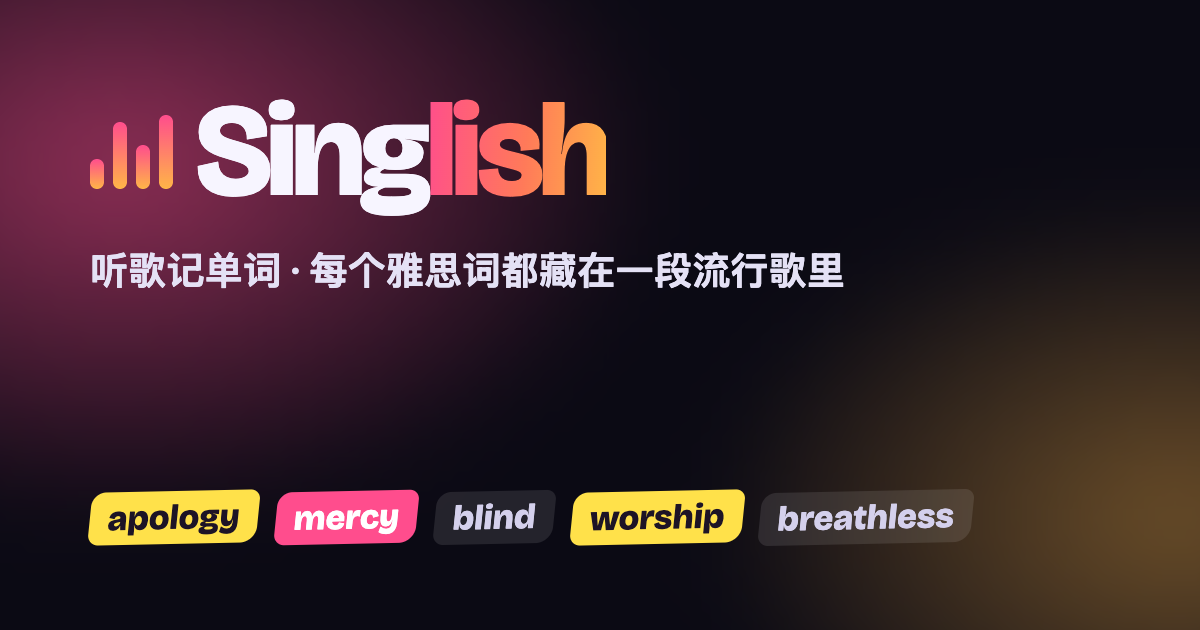
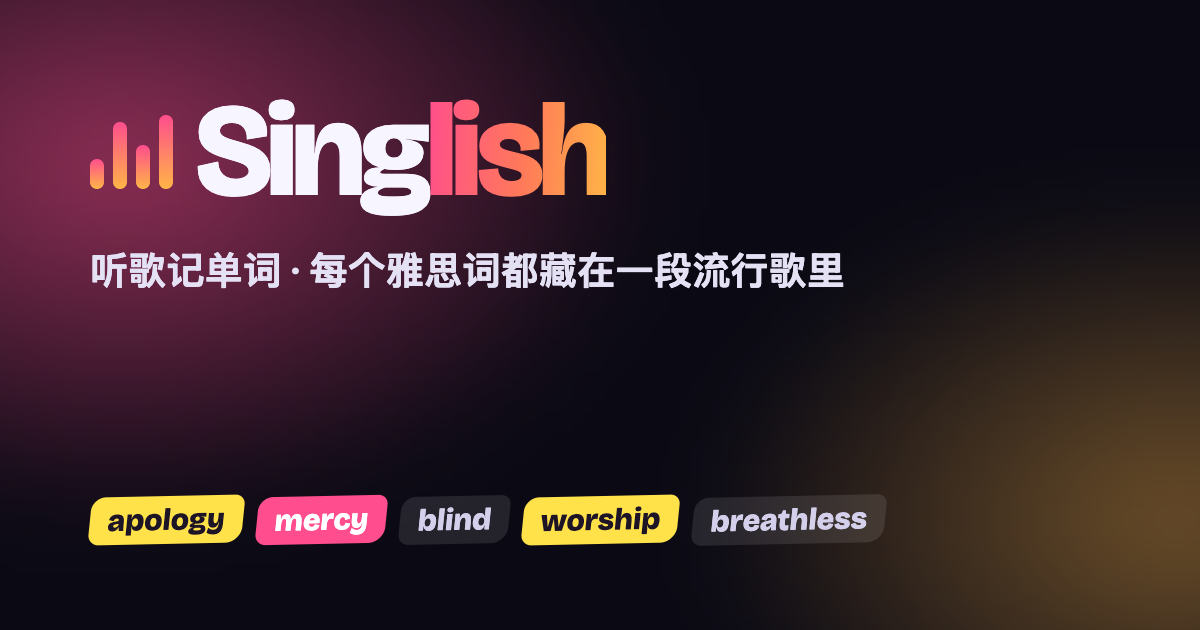
Share sheet only, header "完整版" entry, phone scroll lock
- Share pop-up: one "分享" button where the poster can be shared (the
  system sheet also offers Save Image); desktop without sharing keeps a
  download; in-app browsers get the long-press hint. Light edge on the
  preview so the dark poster stands out.
- Small "完整版" pill after the logo opens the full-version survey any
  time; survey copy updated.
- Phones: the page itself can no longer scroll, fixing the layout that
  sometimes shifted up and stuck (focus / scrollIntoView on iOS); the
  word list scrolls internally, its header stays pinned, and its close
  button is no longer covered by the site header.
- Link-preview image: word chips on one row.

Changed region(s): [[0.0617, 0.754, 0.8017, 0.8746]]

diff --git a/index.html b/index.html
@@ -63,6 +63,8 @@ a{color:var(--amber)}
 body.is-playing .eq i{animation:eq .8s ease-in-out infinite alternate}
 .eq i:nth-child(2){animation-delay:-.2s!important}.eq i:nth-child(3){animation-delay:-.45s!important}.eq i:nth-child(4){animation-delay:-.1s!important}
 @keyframes eq{0%{height:4px}100%{height:20px}}
+.full-pill{flex:none;border:1px solid rgba(255,77,141,.45);background:rgba(255,77,141,.12);color:#FF9DC0;border-radius:999px;padding:2px 8px;font-size:11px;line-height:16px;font-weight:700;letter-spacing:.02em;transition:background .15s,color .15s}
+@media (hover:hover){ .full-pill:hover{background:var(--grad);color:#1A0C14;border-color:transparent} }   /* no sticky hover after a tap on phones */
 .tagline{margin:0;color:var(--muted);font-size:13px;white-space:nowrap;overflow:hidden;text-overflow:ellipsis}
 .top .grow{flex:1}
 .prog{display:flex;align-items:center;gap:10px;font-size:13px;color:var(--muted);white-space:nowrap;font-variant-numeric:tabular-nums}
@@ -191,12 +193,14 @@ body.is-playing .deck-cd{animation-play-state:running}
 
 /* ---------- phone ---------- */
 @media (max-width:899px){
-  body{overflow:hidden;display:flex;flex-direction:column;height:100%}
+  html{height:100%;overflow:hidden;overscroll-behavior:none}
+  body{overflow:hidden;display:flex;flex-direction:column;height:100%;position:fixed;inset:0;overscroll-behavior:none}
   .top{padding:10px 16px;gap:10px;flex:none}
   .logo h1{font-size:21px}
   .tagline,.prog-bar{display:none}
   .btn-list{display:inline-block}
-  .app{display:flex;flex-direction:column;padding:0;flex:1;min-height:0;min-width:0;gap:0;width:100%;max-width:100vw}
+  /* z-index:auto so the fixed word-list panel (z 40) can sit above the header (z 20) */
+  .app{display:flex;flex-direction:column;padding:0;flex:1;min-height:0;min-width:0;gap:0;width:100%;max-width:100vw;z-index:auto}
   .aside{position:static;display:contents}
   #deskStage,.hint,.foot{display:none}
   .aside > .deck{flex:none;align-self:stretch;width:auto;margin:12px 16px 0;border-radius:22px;aspect-ratio:auto;height:132px;padding:14px;gap:14px}
@@ -206,7 +210,7 @@ body.is-playing .deck-cd{animation-play-state:running}
   .clip{margin-bottom:2px}
   .browser{position:fixed;inset:0;z-index:40;background:var(--bg);overflow:auto;padding:calc(env(safe-area-inset-top,0px) + 14px) 16px calc(env(safe-area-inset-bottom,0px) + 24px);display:none}
   .browser.open{display:block}
-  .browser-head{display:flex}
+  .browser-head{display:flex;position:sticky;top:calc(-1 * (env(safe-area-inset-top,0px) + 12px));z-index:2;margin:0 -16px 12px;padding:calc(env(safe-area-inset-top,0px) + 12px) 16px 10px;background:color-mix(in srgb,var(--bg) 92%,transparent);backdrop-filter:blur(10px);-webkit-backdrop-filter:blur(10px)}
   .grid{grid-template-columns:repeat(auto-fill,minmax(150px,1fr));gap:10px}
   .card .w{font-size:21px}
   .carousel{display:flex;flex:1;min-height:0;width:100%;min-width:0;max-width:100vw;overflow-x:auto;scroll-snap-type:x mandatory;overscroll-behavior-x:contain;scrollbar-width:none;
@@ -271,7 +275,9 @@ body.is-playing .deck-cd{animation-play-state:running}
 .st-top .no{margin-left:auto}
 .sheet{position:fixed;inset:0;z-index:60;display:flex;align-items:center;justify-content:center;padding:calc(env(safe-area-inset-top,0px) + 16px) 16px calc(env(safe-area-inset-bottom,0px) + 16px);background:rgba(6,5,12,.72);backdrop-filter:blur(10px);-webkit-backdrop-filter:blur(10px)}
 .sheet-card{display:flex;flex-direction:column;align-items:center;gap:14px;max-width:min(440px,100%);max-height:100%}
-.sheet-card img{display:block;max-width:100%;max-height:calc(100dvh - 190px);border-radius:18px;box-shadow:0 24px 70px rgba(0,0,0,.6);background:#15121F}
+.sheet-card img{display:block;max-width:100%;max-height:calc(100dvh - 190px);border-radius:18px;background:#15121F;
+  /* the poster is dark on a dark backdrop: a light hairline and soft halo keep its edge readable */
+  box-shadow:0 0 0 1px rgba(255,255,255,.22),0 0 0 6px rgba(255,255,255,.04),0 24px 70px rgba(0,0,0,.7)}
 .sheet-card .busy{color:var(--soft);font-size:14px;padding:40px}
 .sheet-actions{display:flex;gap:8px;flex-wrap:wrap;justify-content:center}
 .sheet-actions button{height:44px;border-radius:999px;padding:0 18px;font-weight:700;font-size:14px;border:1px solid var(--stroke-2);background:var(--glass-2);color:var(--ink)}
@@ -287,7 +293,7 @@ body.is-playing .deck-cd{animation-play-state:running}
 <div class="ambient" aria-hidden="true"><i id="artA"></i><i id="artB"></i></div>
 
 <header class="top">
-  <div class="logo"><span class="eq" aria-hidden="true"><i></i><i></i><i></i><i></i></span><h1>Sing<span>lish</span></h1></div>
+  <div class="logo"><span class="eq" aria-hidden="true"><i></i><i></i><i></i><i></i></span><h1>Sing<span>lish</span></h1></div><button type="button" class="full-pill" id="openFull">完整版</button>
   <p class="tagline">听歌记单词 · 每个雅思词都藏在一段流行歌里</p>
   <div class="grow"></div>
   <div class="prog"><div class="prog-bar"><i id="progFill"></i></div><span><b id="doneCount">0</b> / <span id="totalCount">100</span> 已唱</span></div>
@@ -339,7 +345,7 @@ body.is-playing .deck-cd{animation-play-state:running}
   <div class="survey-card">
     <button type="button" class="survey-x" id="surveyClose" aria-label="关闭">×</button>
     <h3 id="surveyTitle">完整版，敬请期待</h3>
-    <p>更多词表、搜任意单词出卡片、复习模式……你想要吗？</p>
+    <p>字典选择，曲风/歌手偏好，跟唱模式，复习...</p>
     <div class="survey-actions"><button type="button" class="want-btn" data-want>♥ 想要</button><button type="button" id="surveyMeh">一般般</button></div>
   </div>
 </div>
@@ -349,9 +355,8 @@ body.is-playing .deck-cd{animation-play-state:running}
     <p class="busy" id="sheetBusy">正在生成分享图…</p>
     <img id="sheetImg" alt="分享图预览" hidden>
     <div class="sheet-actions">
-      <button type="button" class="primary" id="shareNative" hidden>分享</button>
       <button type="button" id="shareSave">保存图片</button>
-      <button type="button" id="shareCopy">复制链接</button>
+      <button type="button" class="primary" id="shareNative">分享</button>
       <button type="button" id="shareClose">关闭</button>
     </div>
     <p class="sheet-hint" id="sheetHint">手机上也可以长按图片保存</p>
@@ -758,6 +763,7 @@ $('#surveyMeh').addEventListener('click', () => { vote('meh'); closeSurvey(); })
 $('#surveyClose').addEventListener('click', () => { store.set('stw.survey', 1); closeSurvey(); });
 $('#survey').addEventListener('click', e => { if (e.target.id === 'survey') { store.set('stw.survey', 1); closeSurvey(); } });
 function closeSurvey() { $('#survey').hidden = true; }
+$('#openFull').addEventListener('click', () => { renderWant(); $('#survey').hidden = false; });   // open any time from the header
 // ask once, after the listener has finished five different clips in this visit
 const sungThisVisit = new Set();
 function maybeSurvey(i) {
@@ -858,7 +864,7 @@ let shareFile = null, shareIdx = 0, shareUrl = '';
 async function openShare(i) {
   shareIdx = i; shareFile = null;
   const sheet = $('#sheet'), img = $('#sheetImg');
-  sheet.hidden = false; img.hidden = true; $('#sheetBusy').hidden = false; $('#shareNative').hidden = true;
+  sheet.hidden = false; img.hidden = true; $('#sheetBusy').hidden = false;
   try {
     const blob = await makeCard(i);
     shareFile = new File([blob], `singlish-${DATA[i].word}.png`, { type: 'image/png' });
@@ -877,7 +883,8 @@ function setShareMode() {
   const canFiles = !!(navigator.canShare && shareFile && navigator.canShare({ files: [shareFile] }));
   const save = $('#shareSave'), native = $('#shareNative'), hint = $('#sheetHint');
   native.hidden = !canFiles;
-  if (touch && canFiles) { save.textContent = '保存到相册'; save.hidden = false; hint.innerHTML = '发朋友圈：点「分享」→ 选「微信」→「分享到朋友圈」<br>存相册：点「保存到相册」→「存储图像」'; }
+  // the share sheet already has "Save Image", so wherever sharing works it is the only button
+  if (canFiles) { save.hidden = true; hint.innerHTML = touch ? '发朋友圈：点「分享」→ 选「微信」→「分享到朋友圈」<br>存相册：点「分享」→「存储图像」' : ''; }
   else if (touch) { save.hidden = true; hint.innerHTML = '长按图片，保存到相册<br><small>再去朋友圈发表，从相册选这张图</small>'; hint.classList.add('strong'); }
   else { save.textContent = '保存图片'; save.hidden = false; hint.textContent = ''; }
   if (inApp) { save.hidden = true; native.hidden = true; hint.innerHTML = '长按图片，保存到相册<br><small>再去朋友圈发表，从相册选这张图</small>'; hint.classList.add('strong'); }
@@ -894,11 +901,6 @@ $('#shareSave').addEventListener('click', async () => {
   if (!shareUrl) return;
   if (touch && navigator.canShare?.({ files: [shareFile] })) { try { await navigator.share({ files: [shareFile] }); } catch {} return; }   // → "Save Image"
   const a = document.createElement('a'); a.href = shareUrl; a.download = shareFile.name; document.body.appendChild(a); a.click(); a.remove();
-});
-$('#shareCopy').addEventListener('click', async () => {
-  const url = pageUrl(shareIdx), btn = $('#shareCopy');
-  try { await navigator.clipboard.writeText(url); btn.textContent = '已复制'; } catch { prompt?.('复制这个链接', url); }
-  setTimeout(() => btn.textContent = '复制链接', 1600);
 });
 document.addEventListener('click', e => { const b = e.target.closest('[data-share]'); if (b) openShare(+b.dataset.share); });
 
@@ -928,7 +930,11 @@ const tog = (id, key) => { const b = $(id); b.setAttribute('aria-pressed', !!sta
 tog('#shuffle', 'shuffle'); tog('#loop', 'loop');
 // the whole gate is tappable, not just the button
 $('#start').addEventListener('click', () => { prime(state.cur); state.started = true; $('#start').hidden = true; play(state.cur); });
-$('#openList').addEventListener('click', () => { $('#browser').classList.add('open'); grid.querySelector('.card.on')?.scrollIntoView({ block: 'center' }); });
+$('#openList').addEventListener('click', () => {
+  const panel = $('#browser'); panel.classList.add('open');
+  const c = grid.querySelector('.card.on');   // scroll the panel itself; scrollIntoView could also move the page on iOS
+  if (c) panel.scrollTop = c.offsetTop - panel.clientHeight / 2 + c.offsetHeight / 2;
+});
 $('#closeList').addEventListener('click', () => $('#browser').classList.remove('open'));
 document.addEventListener('keydown', e => {
   if (e.target.matches('input,select,textarea')) return;
@@ -944,6 +950,11 @@ function applyMode() {
 }
 mq.addEventListener('change', applyMode);
 
+try { history.scrollRestoration = 'manual'; } catch {}
+const pinTop = () => { if (isMobile() && (scrollY || document.documentElement.scrollTop)) scrollTo(0, 0); };
+addEventListener('scroll', pinTop, { passive: true });
+addEventListener('resize', pinTop);
+visualViewport?.addEventListener('resize', pinTop);
 $('#totalCount').textContent = DATA.length;
 // Deep link from a shared card: #word opens that word.
 { const w = decodeURIComponent(location.hash.slice(1)); const k = DATA.findIndex(e => e.word === w); if (k >= 0) state.cur = k; }
